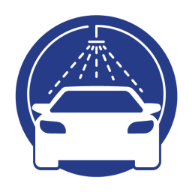
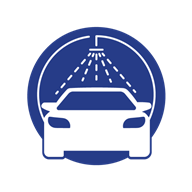
ajustado o icone

Changed region(s): [[0.0625, 0.0625, 0.9375, 0.9375], [0.6875, 0.25, 0.7188, 0.2812]]

diff --git a/css/styles.scss b/css/styles.scss
@@ -220,7 +220,7 @@ body{
                 }
                 p{
                     font-family: $fontSource;
-                    color: hsla(227, 69%, 48%, 0.907);
+                    color: rgba(38, 59, 136, 0.9);
                     font-weight: 500;
                     padding: 0;
                     margin: 0.3em 0 0 0;

diff --git a/sw.js b/sw.js
@@ -11,9 +11,6 @@ const resourcesToPrecache = [
 '/lavajato/js/functions.js',
 '/lavajato/js/chart.js',
 '/lavajato/js/main.js',
-'/lavajato/images/favicon.ico',
-'/lavajato/site.webmanifest',
-'/lavajato/images/favicon-144x144.png'
 ];
 
 self.addEventListener('install', (event) => {

diff --git a/js/main.js b/js/main.js
@@ -8,4 +8,8 @@ if ('serviceWorker' in navigator) {
         console.log('ServiceWorker registration failed: ', err);
       });
     });
+
+    Notification.requestPermission(function(status) {
+        console.log('Notification permission status:', status);
+    });
 }

diff --git a/css/styles.css b/css/styles.css
@@ -235,7 +235,7 @@ body #list .pill .pill-content h2 {
 
 body #list .pill .pill-content p {
   font-family: "Source Sans Pro", sans-serif;
-  color: rgba(38, 75, 207, 0.907);
+  color: rgba(38, 59, 136, 0.9);
   font-weight: 500;
   padding: 0;
   margin: 0.3em 0 0 0;
